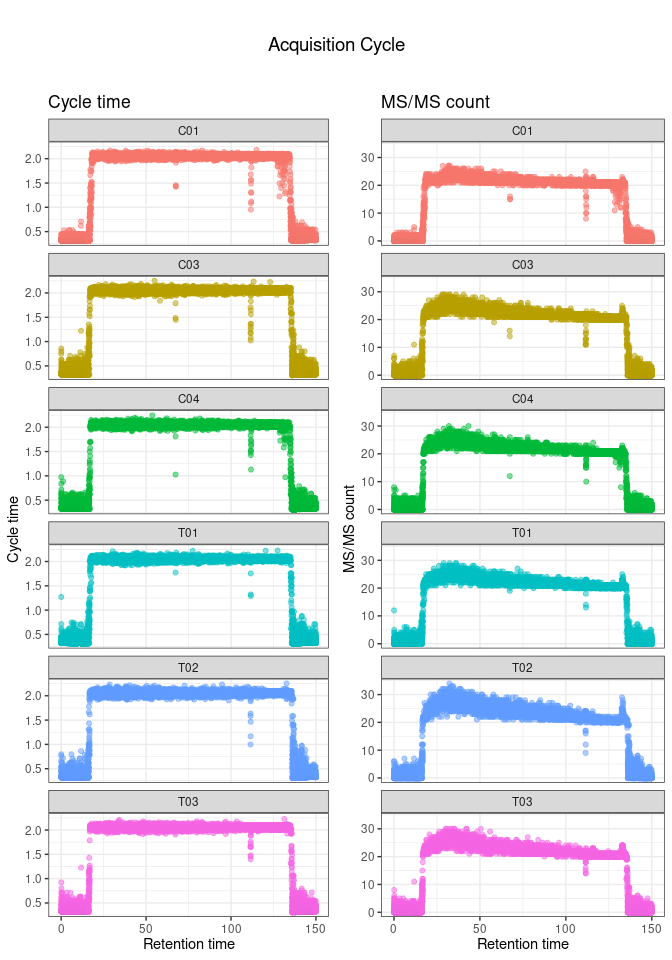
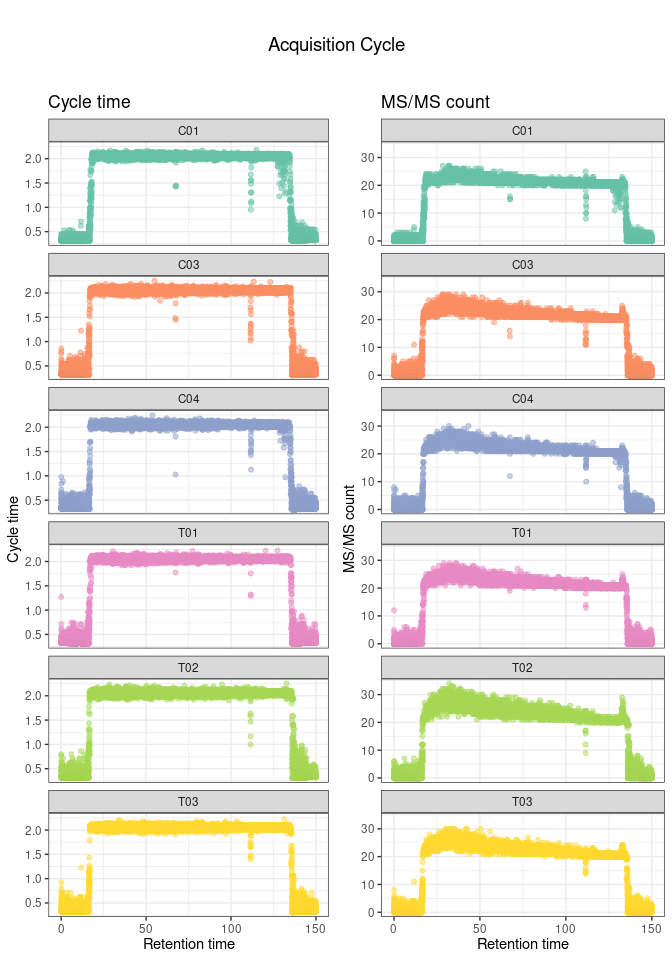
paletttes added

diff --git a/README.md b/README.md
@@ -140,16 +140,13 @@ PlotTotalIonCurrent(msmsScans)
 <img src="man/figures/README-TotalIonCurrent-1.png" width="100%" />
 
 ``` r
-PlotProteinCoverage(peptides,proteinGroups ,UniprotID = "A0A286YCV9", log_base = 10, segment_width = 3)
+PlotProteinCoverage(peptides,proteinGroups ,UniprotID = "Q8R0Y6", log_base = 10, segment_width = 1)
 ```
 
 <img src="man/figures/README-protein_degradation-1.png" width="100%" />
 
 ``` r
 PlotAcquisitionCycle(msScans)
-#> Warning: Removed 6 rows containing missing values (geom_point).
-
-#> Warning: Removed 6 rows containing missing values (geom_point).
 ```
 
 <img src="man/figures/README-PlotAcquisition-1.png" width="100%" />
@@ -161,10 +158,10 @@ PlotCombinedDynamicRange(proteinGroups, show_shade = TRUE, percent_proteins = 0.
 <img src="man/figures/README-DynamicRange-1.png" width="100%" />
 
 ``` r
-PLotAllDynamicRange(proteinGroups,show_shade = TRUE, percent_proteins = 0.90,columns = 1,rows = 2)
+PLotAllDynamicRange(proteinGroups,show_shade = TRUE, percent_proteins = 0.90,columns = 2,rows = 2)
 ```
 
-<img src="man/figures/README-DynamicRangeAll-1.png" width="100%" /><img src="man/figures/README-DynamicRangeAll-2.png" width="100%" />
+<img src="man/figures/README-DynamicRangeAll-1.png" width="100%" />
 
 ``` r
 
